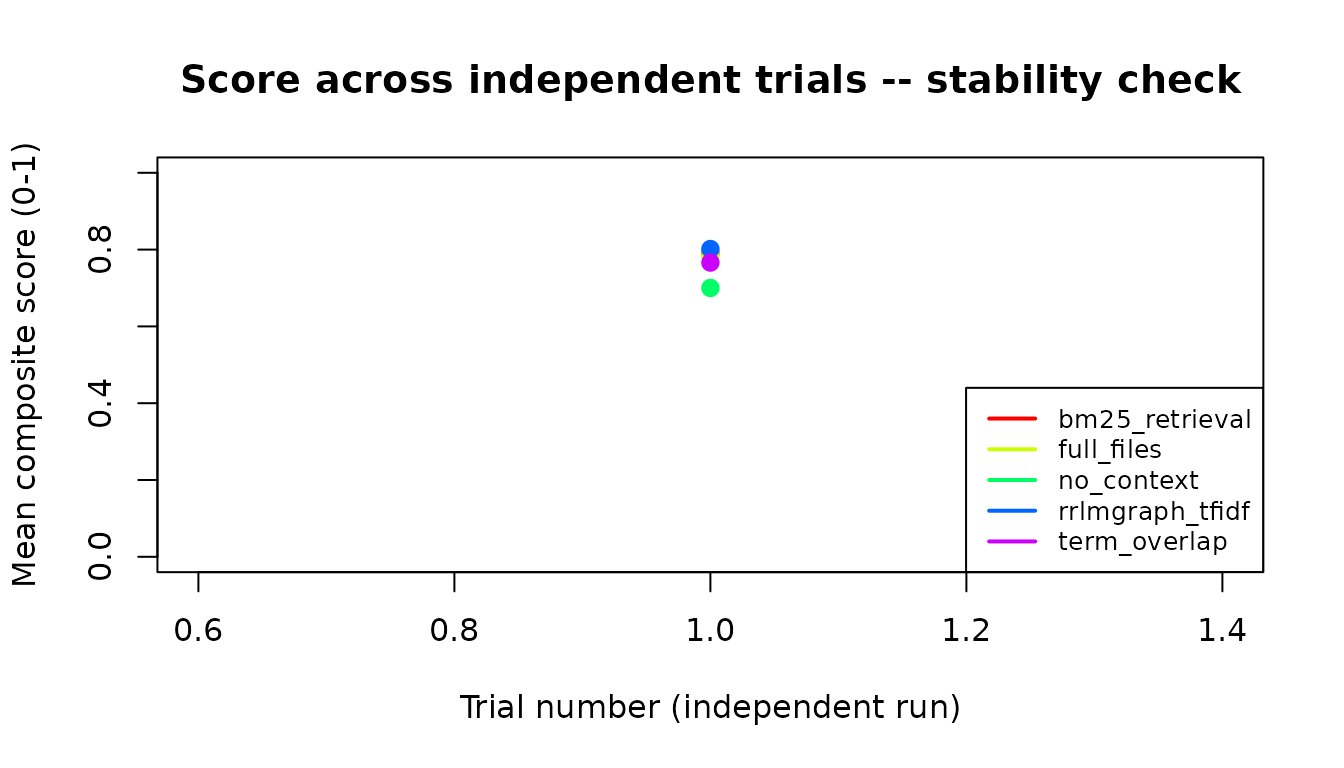
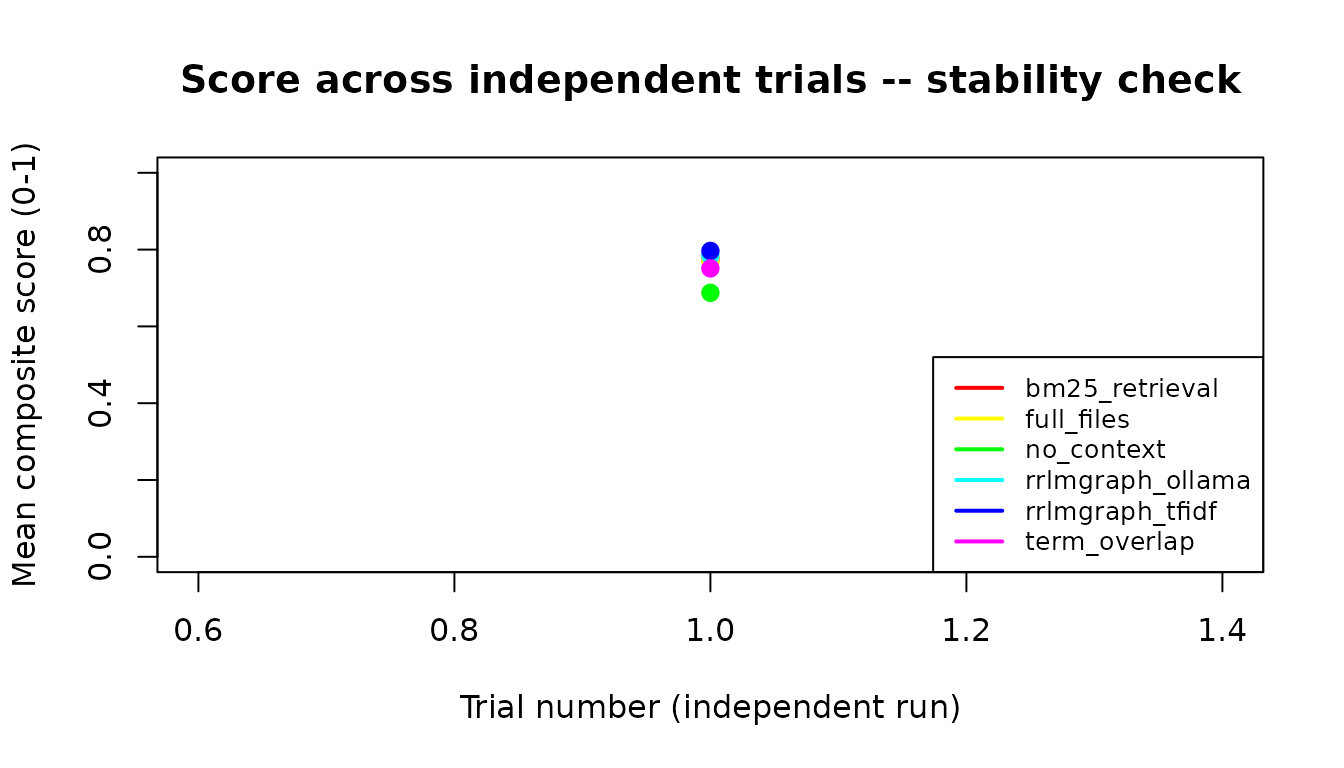
Deploying to gh-pages from @ davidrsch/rrlmgraph-bench@88e53a41578db75f210680f99dae6bb50cd14873 🚀

Changed region(s): [[0.6875, 0.5, 0.9375, 0.7188], [0.6875, 0.4375, 0.9375, 0.4688], [0.5, 0.3125, 0.5625, 0.4062]]

diff --git a/articles/benchmark_report.html b/articles/benchmark_report.html
@@ -351,7 +351,7 @@ rate per strategy.</caption>
 <col width="9%">
 <col width="9%">
 <col width="9%">
-<col width="19%">
+<col width="18%">
 <col width="20%">
 </colgroup>
 <thead><tr class="header">
@@ -367,53 +367,63 @@ rate per strategy.</caption>
 <tbody>
 <tr class="odd">
 <td align="left">rrlmgraph_tfidf</td>
-<td align="right">29</td>
-<td align="right">0.802</td>
-<td align="right">0.117</td>
-<td align="right">0.758</td>
-<td align="right">0.840</td>
-<td align="right">726.586</td>
-<td align="right">0.379</td>
+<td align="right">30</td>
+<td align="right">0.797</td>
+<td align="right">0.118</td>
+<td align="right">0.753</td>
+<td align="right">0.841</td>
+<td align="right">725.500</td>
+<td align="right">0.367</td>
 </tr>
 <tr class="even">
 <td align="left">full_files</td>
-<td align="right">29</td>
-<td align="right">0.786</td>
-<td align="right">0.123</td>
-<td align="right">0.741</td>
-<td align="right">0.827</td>
-<td align="right">1172.000</td>
-<td align="right">0.379</td>
+<td align="right">30</td>
+<td align="right">0.770</td>
+<td align="right">0.147</td>
+<td align="right">0.715</td>
+<td align="right">0.825</td>
+<td align="right">1278.533</td>
+<td align="right">0.367</td>
 </tr>
 <tr class="odd">
 <td align="left">term_overlap</td>
-<td align="right">29</td>
-<td align="right">0.766</td>
-<td align="right">0.123</td>
-<td align="right">0.721</td>
-<td align="right">0.807</td>
-<td align="right">2421.552</td>
-<td align="right">0.414</td>
+<td align="right">30</td>
+<td align="right">0.751</td>
+<td align="right">0.147</td>
+<td align="right">0.696</td>
+<td align="right">0.806</td>
+<td align="right">2395.233</td>
+<td align="right">0.400</td>
 </tr>
 <tr class="even">
 <td align="left">bm25_retrieval</td>
-<td align="right">29</td>
-<td align="right">0.791</td>
-<td align="right">0.119</td>
-<td align="right">0.746</td>
-<td align="right">0.830</td>
-<td align="right">2320.379</td>
-<td align="right">0.448</td>
+<td align="right">30</td>
+<td align="right">0.774</td>
+<td align="right">0.146</td>
+<td align="right">0.720</td>
+<td align="right">0.829</td>
+<td align="right">2298.267</td>
+<td align="right">0.433</td>
 </tr>
 <tr class="odd">
 <td align="left">no_context</td>
-<td align="right">29</td>
-<td align="right">0.700</td>
-<td align="right">0.146</td>
-<td align="right">0.645</td>
-<td align="right">0.750</td>
-<td align="right">269.517</td>
-<td align="right">0.276</td>
+<td align="right">30</td>
+<td align="right">0.688</td>
+<td align="right">0.159</td>
+<td align="right">0.628</td>
+<td align="right">0.747</td>
+<td align="right">264.800</td>
+<td align="right">0.267</td>
+</tr>
+<tr class="even">
+<td align="left">rrlmgraph_ollama</td>
+<td align="right">30</td>
+<td align="right">0.784</td>
+<td align="right">0.130</td>
+<td align="right">0.735</td>
+<td align="right">0.832</td>
+<td align="right">748.100</td>
+<td align="right">0.433</td>
 </tr>
 </tbody>
 </table>
@@ -508,25 +518,30 @@ strategy is less efficient.</caption>
 <tbody>
 <tr class="odd">
 <td align="left">no_context</td>
-<td align="right">3.874</td>
+<td align="right">4.309</td>
 <td align="left">More efficient than full_files</td>
 </tr>
 <tr class="even">
 <td align="left">rrlmgraph_tfidf</td>
-<td align="right">1.646</td>
+<td align="right">1.822</td>
 <td align="left">More efficient than full_files</td>
 </tr>
 <tr class="odd">
-<td align="left">bm25_retrieval</td>
-<td align="right">0.508</td>
-<td align="left">Less efficient than full_files</td>
+<td align="left">rrlmgraph_ollama</td>
+<td align="right">1.739</td>
+<td align="left">More efficient than full_files</td>
 </tr>
 <tr class="even">
-<td align="left">term_overlap</td>
-<td align="right">0.472</td>
+<td align="left">bm25_retrieval</td>
+<td align="right">0.559</td>
 <td align="left">Less efficient than full_files</td>
 </tr>
 <tr class="odd">
+<td align="left">term_overlap</td>
+<td align="right">0.520</td>
+<td align="left">Less efficient than full_files</td>
+</tr>
+<tr class="even">
 <td align="left">full_files</td>
 <td align="right">NA</td>
 <td align="left">N/A (baseline)</td>
@@ -574,27 +589,32 @@ namespace.</caption>
 <tbody>
 <tr class="odd">
 <td align="left">no_context</td>
-<td align="right">0.276</td>
+<td align="right">0.267</td>
 <td align="left">High (&gt; 25%)</td>
 </tr>
 <tr class="even">
 <td align="left">rrlmgraph_tfidf</td>
-<td align="right">0.379</td>
+<td align="right">0.367</td>
 <td align="left">High (&gt; 25%)</td>
 </tr>
 <tr class="odd">
 <td align="left">full_files</td>
-<td align="right">0.379</td>
+<td align="right">0.367</td>
 <td align="left">High (&gt; 25%)</td>
 </tr>
 <tr class="even">
 <td align="left">term_overlap</td>
-<td align="right">0.414</td>
+<td align="right">0.400</td>
 <td align="left">High (&gt; 25%)</td>
 </tr>
 <tr class="odd">
 <td align="left">bm25_retrieval</td>
-<td align="right">0.448</td>
+<td align="right">0.433</td>
+<td align="left">High (&gt; 25%)</td>
+</tr>
+<tr class="even">
+<td align="left">rrlmgraph_ollama</td>
+<td align="right">0.433</td>
 <td align="left">High (&gt; 25%)</td>
 </tr>
 </tbody>
@@ -758,31 +778,37 @@ differences across projects is not robust.</caption>
 <tr class="odd">
 <td align="left">bm25_retrieval</td>
 <td align="right">0.841</td>
-<td align="right">0.795</td>
+<td align="right">0.747</td>
 <td align="right">0.735</td>
 </tr>
 <tr class="even">
 <td align="left">full_files</td>
 <td align="right">0.846</td>
-<td align="right">0.777</td>
+<td align="right">0.732</td>
 <td align="right">0.734</td>
 </tr>
 <tr class="odd">
 <td align="left">no_context</td>
 <td align="right">0.771</td>
-<td align="right">0.676</td>
+<td align="right">0.641</td>
 <td align="right">0.651</td>
 </tr>
 <tr class="even">
-<td align="left">rrlmgraph_tfidf</td>
-<td align="right">0.850</td>
-<td align="right">0.769</td>
-<td align="right">0.782</td>
+<td align="left">rrlmgraph_ollama</td>
+<td align="right">0.827</td>
+<td align="right">0.730</td>
+<td align="right">0.795</td>
 </tr>
 <tr class="odd">
+<td align="left">rrlmgraph_tfidf</td>
+<td align="right">0.850</td>
+<td align="right">0.757</td>
+<td align="right">0.782</td>
+</tr>
+<tr class="even">
 <td align="left">term_overlap</td>
 <td align="right">0.812</td>
-<td align="right">0.783</td>
+<td align="right">0.736</td>
 <td align="right">0.705</td>
 </tr>
 </tbody>

diff --git a/articles/benchmark_report.md b/articles/benchmark_report.md
@@ -135,13 +135,14 @@ if (results_available) {
 #> ℹ Rerun with n_trials >= 3 for full statistical output.
 ```
 
-| strategy        |   n | mean_score | sd_score | ci_lo_95 | ci_hi_95 | mean_total_tokens | hallucination_rate |
-|:----------------|----:|-----------:|---------:|---------:|---------:|------------------:|-------------------:|
-| rrlmgraph_tfidf |  29 |      0.802 |    0.117 |    0.758 |    0.840 |           726.586 |              0.379 |
-| full_files      |  29 |      0.786 |    0.123 |    0.741 |    0.827 |          1172.000 |              0.379 |
-| term_overlap    |  29 |      0.766 |    0.123 |    0.721 |    0.807 |          2421.552 |              0.414 |
-| bm25_retrieval  |  29 |      0.791 |    0.119 |    0.746 |    0.830 |          2320.379 |              0.448 |
-| no_context      |  29 |      0.700 |    0.146 |    0.645 |    0.750 |           269.517 |              0.276 |
+| strategy         |   n | mean_score | sd_score | ci_lo_95 | ci_hi_95 | mean_total_tokens | hallucination_rate |
+|:-----------------|----:|-----------:|---------:|---------:|---------:|------------------:|-------------------:|
+| rrlmgraph_tfidf  |  30 |      0.797 |    0.118 |    0.753 |    0.841 |           725.500 |              0.367 |
+| full_files       |  30 |      0.770 |    0.147 |    0.715 |    0.825 |          1278.533 |              0.367 |
+| term_overlap     |  30 |      0.751 |    0.147 |    0.696 |    0.806 |          2395.233 |              0.400 |
+| bm25_retrieval   |  30 |      0.774 |    0.146 |    0.720 |    0.829 |          2298.267 |              0.433 |
+| no_context       |  30 |      0.688 |    0.159 |    0.628 |    0.747 |           264.800 |              0.267 |
+| rrlmgraph_ollama |  30 |      0.784 |    0.130 |    0.735 |    0.832 |           748.100 |              0.433 |
 
 Summary: mean score, 95% CI, token usage, and hallucination rate per
 strategy.
@@ -231,13 +232,14 @@ if (results_available) {
 }
 ```
 
-| strategy        |   TER | interpretation                 |
-|:----------------|------:|:-------------------------------|
-| no_context      | 3.874 | More efficient than full_files |
-| rrlmgraph_tfidf | 1.646 | More efficient than full_files |
-| bm25_retrieval  | 0.508 | Less efficient than full_files |
-| term_overlap    | 0.472 | Less efficient than full_files |
-| full_files      |    NA | N/A (baseline)                 |
+| strategy         |   TER | interpretation                 |
+|:-----------------|------:|:-------------------------------|
+| no_context       | 4.309 | More efficient than full_files |
+| rrlmgraph_tfidf  | 1.822 | More efficient than full_files |
+| rrlmgraph_ollama | 1.739 | More efficient than full_files |
+| bm25_retrieval   | 0.559 | Less efficient than full_files |
+| term_overlap     | 0.520 | Less efficient than full_files |
+| full_files       |    NA | N/A (baseline)                 |
 
 Token Efficiency Ratio (TER) vs full_files baseline. TER \> 1: strategy
 achieves higher score-per-token than full_files. TER \< 1: strategy is
@@ -273,13 +275,14 @@ if (results_available) {
 }
 ```
 
-| strategy        | hallucination_rate | verdict       |
-|:----------------|-------------------:|:--------------|
-| no_context      |              0.276 | High (\> 25%) |
-| rrlmgraph_tfidf |              0.379 | High (\> 25%) |
-| full_files      |              0.379 | High (\> 25%) |
-| term_overlap    |              0.414 | High (\> 25%) |
-| bm25_retrieval  |              0.448 | High (\> 25%) |
+| strategy         | hallucination_rate | verdict       |
+|:-----------------|-------------------:|:--------------|
+| no_context       |              0.267 | High (\> 25%) |
+| rrlmgraph_tfidf  |              0.367 | High (\> 25%) |
+| full_files       |              0.367 | High (\> 25%) |
+| term_overlap     |              0.400 | High (\> 25%) |
+| bm25_retrieval   |              0.433 | High (\> 25%) |
+| rrlmgraph_ollama |              0.433 | High (\> 25%) |
 
 Hallucination rate per strategy. Defined as: fraction of trials with \>=
 1 invented function, invalid argument, or wrong namespace.
@@ -413,13 +416,14 @@ if (results_available && "task_id" %in% names(all_results)) {
 }
 ```
 
-| strategy        | mini_ds |  rpkg | shiny |
-|:----------------|--------:|------:|------:|
-| bm25_retrieval  |   0.841 | 0.795 | 0.735 |
-| full_files      |   0.846 | 0.777 | 0.734 |
-| no_context      |   0.771 | 0.676 | 0.651 |
-| rrlmgraph_tfidf |   0.850 | 0.769 | 0.782 |
-| term_overlap    |   0.812 | 0.783 | 0.705 |
+| strategy         | mini_ds |  rpkg | shiny |
+|:-----------------|--------:|------:|------:|
+| bm25_retrieval   |   0.841 | 0.747 | 0.735 |
+| full_files       |   0.846 | 0.732 | 0.734 |
+| no_context       |   0.771 | 0.641 | 0.651 |
+| rrlmgraph_ollama |   0.827 | 0.730 | 0.795 |
+| rrlmgraph_tfidf  |   0.850 | 0.757 | 0.782 |
+| term_overlap     |   0.812 | 0.736 | 0.705 |
 
 Mean score per strategy per project type. A strategy with large
 differences across projects is not robust.
